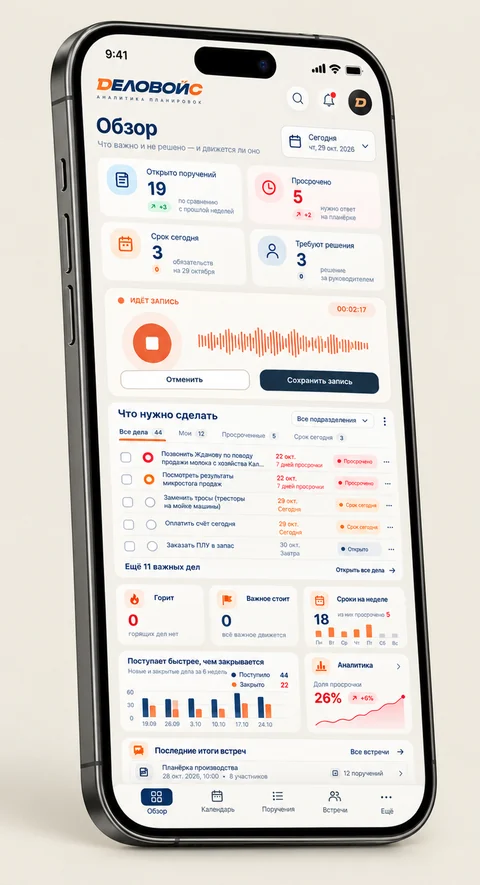
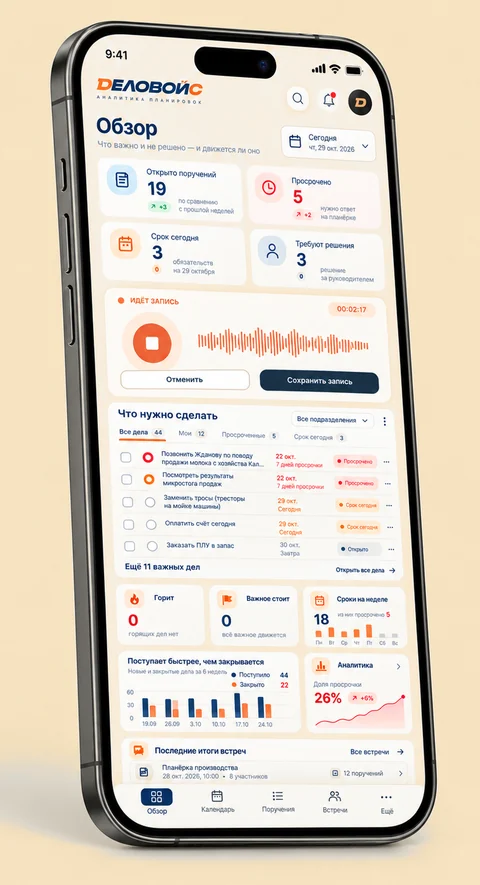
Сайт: единая тёплая схема как на первом экране — фон, плашки, мягкие кнопки; блоки выровнены по краю первого экрана; «Записывай» компактнее; «Все рабочие дела» на отдельной панели со смартфоном
Claude-Session: https://claude.ai/code/session_01Mo5SiCnAMD2LzSmNhefeXx

Changed region(s): [[0.0, 0.0, 1.0, 1.0], [0.7188, 0.3051, 0.75, 0.3356]]

diff --git a/style.css b/style.css
@@ -1,9 +1,9 @@
 @import url('https://fonts.googleapis.com/css2?family=Unbounded:wght@600;700&family=Manrope:wght@400;500;600;700&family=Jost:wght@500&family=JetBrains+Mono:wght@400;500&display=swap');
 /* Деловойс — дизайн-система: палитра Palladian / Oatmeal / Blue Fantastic / Abyssal / Burning Flame / Truffle */
 :root{
---surface:#eee9df;--surface-raised:#f7f4ee;--surface-sunken:#e3ddd0;--line:#d9d2c4;--line-strong:#8c8576;
+--surface:#fbedd4;--surface-raised:#fff8ec;--surface-sunken:#f4e0bf;--line:#ecd7b4;--line-strong:#b89d78;--panel:#f7e3c2;
 --ink:#2c3b4d;--ink-muted:#5b6472;--ink-inverse:#eee9df;
---action:#a35139;--action-hover:#8e4430;--on-action:#eee9df;
+--action:#a35139;--action-hover:#8e4430;--on-action:#fff6e8;
 --accent:#ffb162;--on-accent:#1b2632;--accent-soft:#f8dcbc;
 --success:#2f6b57;--success-soft:#dce9e2;--warning:#8a5a00;--warning-soft:#f6e7c8;--danger:#a1283f;--danger-soft:#f3dcdf;--info:#2e5e8c;--info-soft:#dce5ef;
 --oatmeal:#c9c1b1;--abyssal:#1b2632;--truffle:#a35139;--focus:#2c3b4d;
@@ -409,4 +409,55 @@ body.printing a{color:inherit;text-decoration:none}body.printing .mini{display:n
 .hero{padding-top:84px}
 .hero-text{padding:0 20px}
 .hero-actions .btn{flex:1;padding:0 12px}
+}
+
+/* ===== единая тёплая схема сайта ===== */
+.wrap{max-width:none;padding-left:var(--edge);padding-right:var(--edge)}
+.site-footer .wrap{padding-left:var(--edge);padding-right:var(--edge)}
+
+/* кнопки: мягкие, тёплые */
+.btn,button{border-radius:999px}
+.site .btn{min-height:48px;padding:0 26px;font-size:15px;background:var(--surface-raised);border:1px solid rgba(163,81,57,.28);color:var(--ink);box-shadow:0 1px 0 rgba(255,255,255,.6) inset}
+.site .btn:hover{background:#fff;border-color:rgba(163,81,57,.5)}
+.site .btn.primary{background:var(--action);border-color:var(--action);color:var(--on-action);box-shadow:0 6px 18px -8px rgba(163,81,57,.65)}
+.site .btn.primary:hover{background:var(--action-hover);border-color:var(--action-hover)}
+.site .btn.accent-btn{background:var(--accent);border-color:var(--accent);color:var(--on-accent);box-shadow:0 6px 18px -8px rgba(255,140,40,.7)}
+.site .btn.accent-btn:hover{background:#ffc587;border-color:#ffc587}
+.site-nav nav .btn:not(.primary){box-shadow:none}
+
+/* «Записывай свои деловые встречи» — компактно, три тёплые плашки */
+#how{padding-top:72px}
+#how h2{margin-bottom:0}
+.steps-row{margin-top:28px;gap:16px}
+.steps-row li{border:0;border-radius:20px;background:var(--surface-raised);padding:24px 26px;font:600 17px/1.5 var(--f-sans)}
+
+/* «Все рабочие дела» — отдельная панель со смартфоном */
+#product{padding-top:72px}
+.product{background:var(--panel);border-radius:32px;padding:56px clamp(28px,5vw,72px) 0;gap:clamp(32px,5vw,72px);align-items:end;overflow:hidden}
+.product-text{padding-bottom:56px;align-self:center}
+.product-text h2{margin-bottom:0}
+.points{margin:24px 0 32px;gap:16px}
+.product-phone img{max-width:400px;-webkit-mask-image:linear-gradient(to right,transparent 0,#000 9%,#000 91%,transparent 100%);mask-image:linear-gradient(to right,transparent 0,#000 9%,#000 91%,transparent 100%)}
+
+/* цены */
+#pricing{padding-top:88px}
+.price{background:var(--surface-raised)}
+.price:nth-child(2){background:#f8d3a6}
+
+.cta{border-radius:28px;background:var(--abyssal)}
+.site-footer{border-top-color:var(--line)}
+
+@media(max-width:900px){
+.product{padding:36px 28px 0}
+.product-text{padding-bottom:0}
+.product-phone img{max-width:320px}
+}
+@media(max-width:640px){
+.wrap,.site-footer .wrap{padding-left:16px;padding-right:16px}
+#how,#product{padding-top:56px}
+#pricing{padding-top:64px}
+.steps-row li{padding:20px;font-size:16px}
+.product{border-radius:24px;padding:28px 20px 0}
+.product-phone img{max-width:280px}
+.site .btn{min-height:46px;padding:0 18px}
 }
